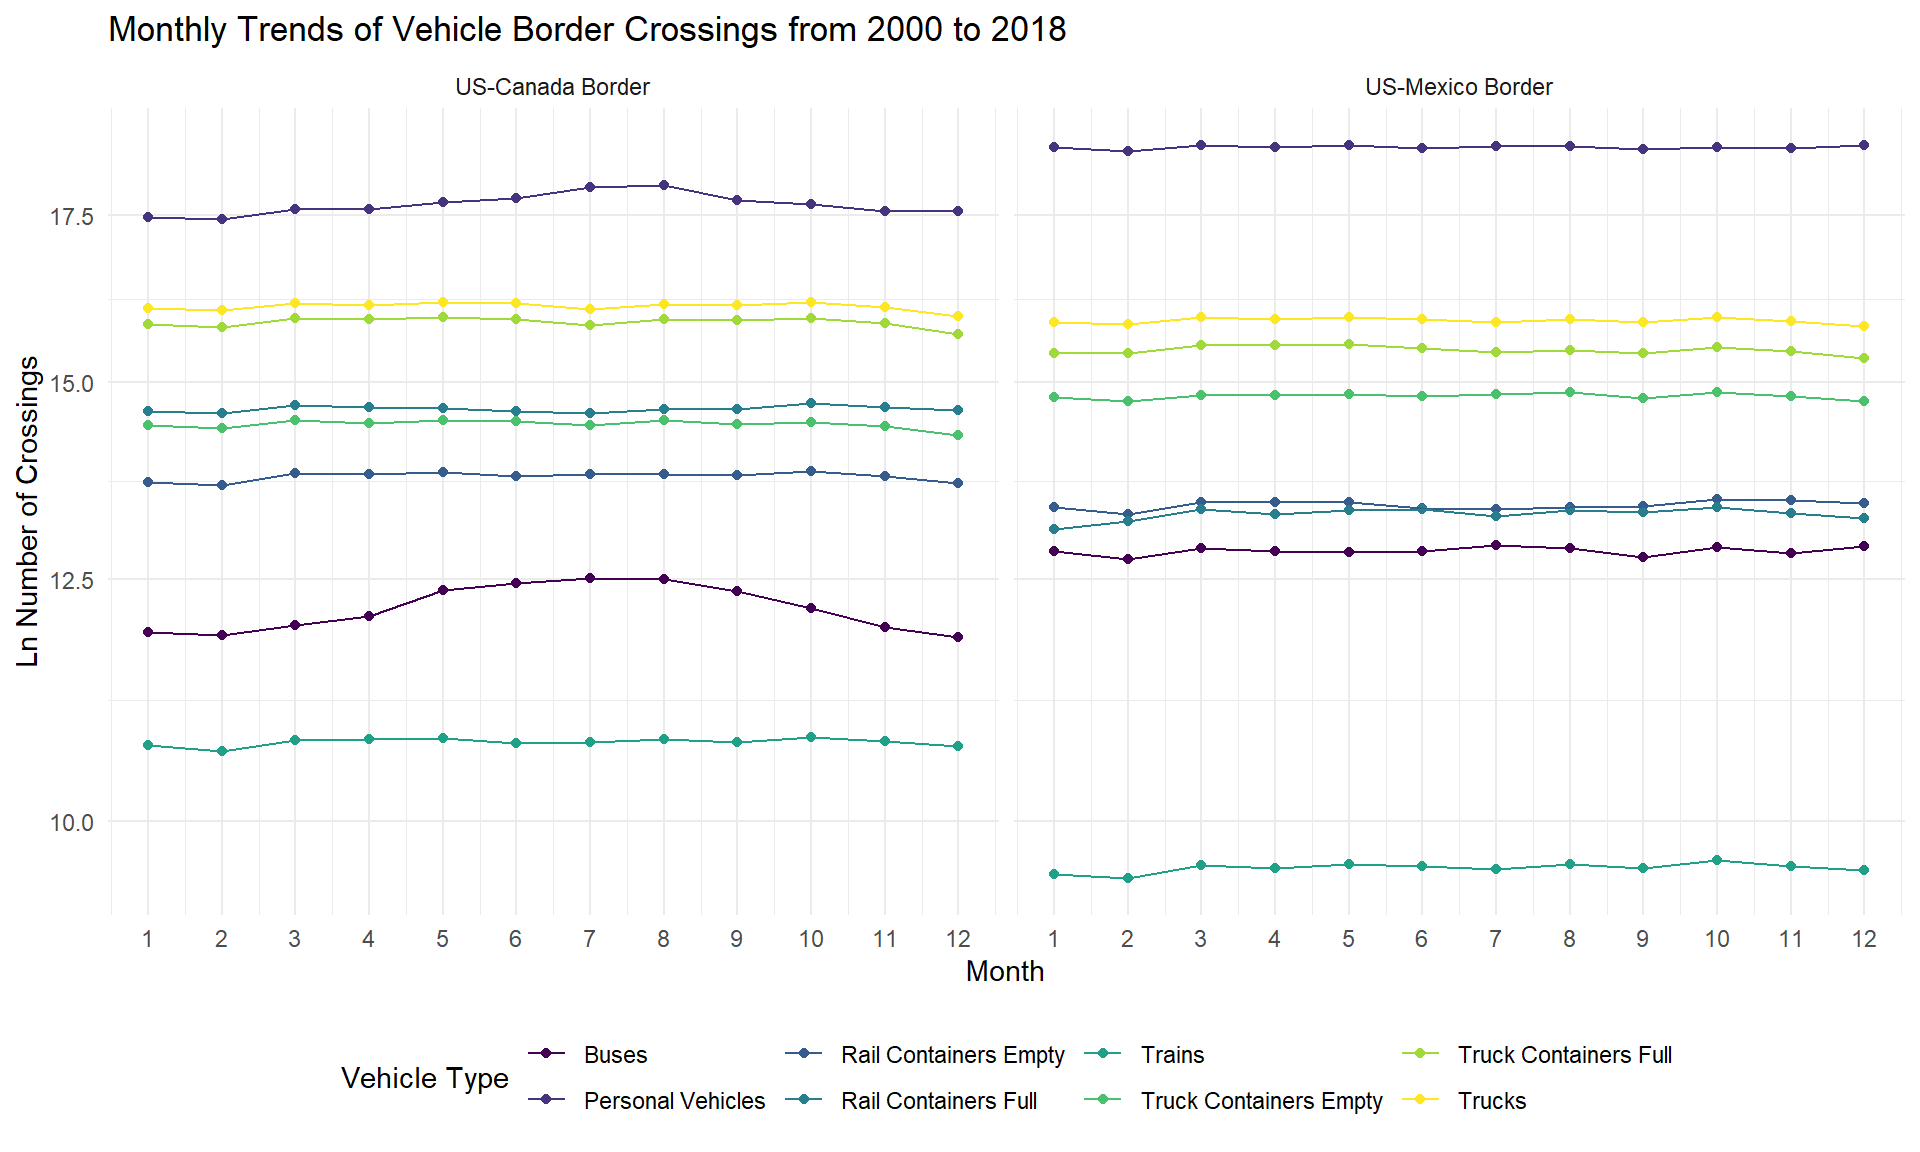
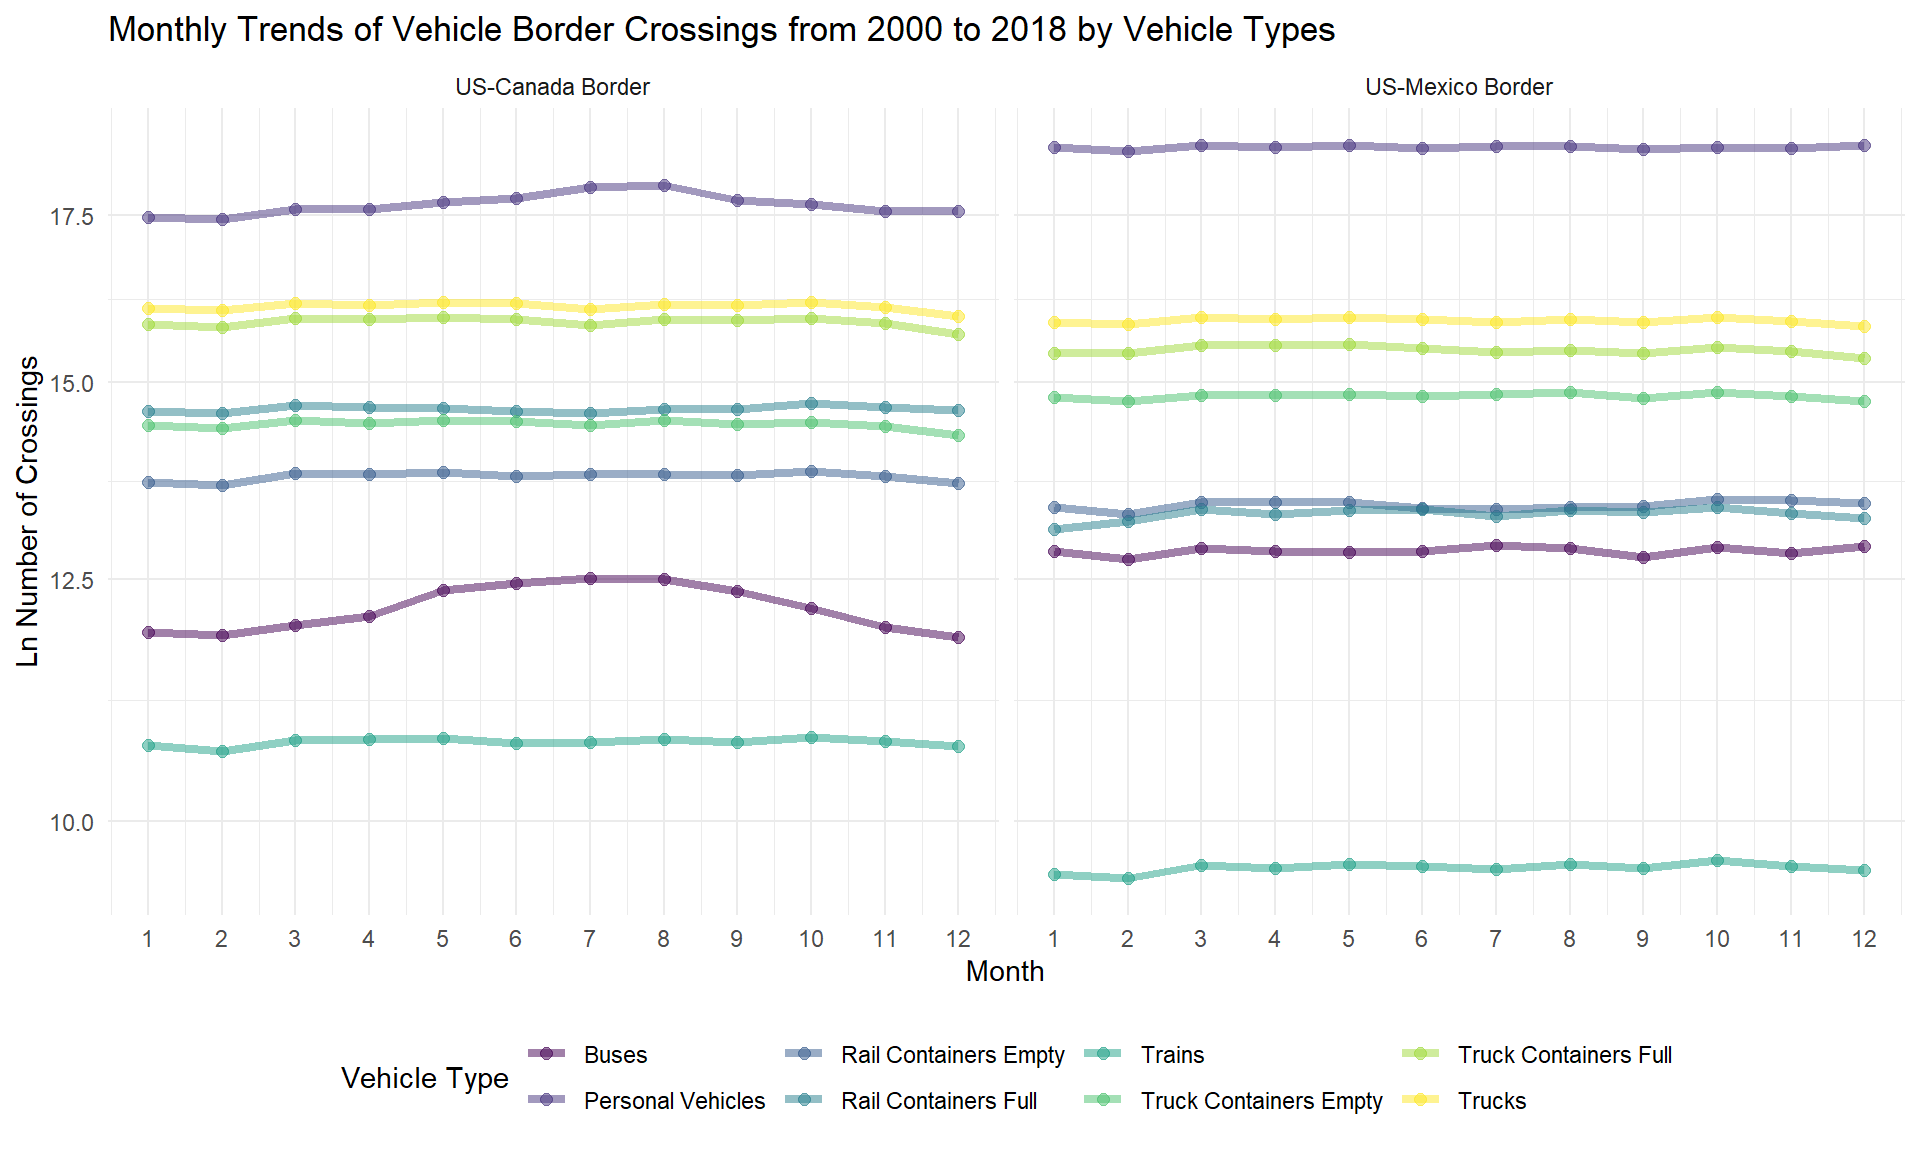
Adding boxplot to dashboard, fixing up line graphs for vehicle trends

diff --git a/crossings_vehicles.html b/crossings_vehicles.html
@@ -11,7 +11,7 @@
 
 
 
-<title>Crossings Vehicles</title>
+<title>Vehicle and Non-Vehicle Border Crossing Trends</title>
 
 <script src="site_libs/jquery-1.11.3/jquery.min.js"></script>
 <meta name="viewport" content="width=device-width, initial-scale=1" />
@@ -23,6 +23,7 @@
 <link href="site_libs/tocify-1.9.1/jquery.tocify.css" rel="stylesheet" />
 <script src="site_libs/tocify-1.9.1/jquery.tocify.js"></script>
 <script src="site_libs/navigation-1.1/tabsets.js"></script>
+<script src="site_libs/navigation-1.1/codefolding.js"></script>
 <link href="site_libs/highlightjs-9.12.0/default.css" rel="stylesheet" />
 <script src="site_libs/highlightjs-9.12.0/highlight.js"></script>
 
@@ -248,6 +249,9 @@ $(document).ready(function () {
 </style>
 
 <!-- code folding -->
+<style type="text/css">
+.code-folding-btn { margin-bottom: 4px; }
+</style>
 
 
 
@@ -384,15 +388,23 @@ div.tocify {
 
 <div class="fluid-row" id="header">
 
+<div class="btn-group pull-right">
+<button type="button" class="btn btn-default btn-xs dropdown-toggle" data-toggle="dropdown" aria-haspopup="true" aria-expanded="false"><span>Code</span> <span class="caret"></span></button>
+<ul class="dropdown-menu" style="min-width: 50px;">
+<li><a id="rmd-show-all-code" href="#">Show All Code</a></li>
+<li><a id="rmd-hide-all-code" href="#">Hide All Code</a></li>
+</ul>
+</div>
 
 
-<h1 class="title toc-ignore">Crossings Vehicles</h1>
+
+<h1 class="title toc-ignore">Vehicle and Non-Vehicle Border Crossing Trends</h1>
 
 </div>
 
 
-<div id="vehicle-trends" class="section level1">
-<h1>Vehicle Trends</h1>
+<div id="monthly-trends" class="section level3">
+<h3>Monthly Trends</h3>
 <pre class="r"><code>vehicles_monthly &lt;-
   border_crossing_df %&gt;%
   filter(vehicle == &quot;Vehicles&quot;) %&gt;%
@@ -403,18 +415,22 @@ vehicles_monthly %&gt;%
   mutate(measure = as.factor(measure), border = as.factor(border)) %&gt;%
   ungroup() %&gt;%
   ggplot(aes(x = month, y = log(num), group = measure , color = measure)) +
-  geom_point() +
-  geom_line() +
+  geom_point(size = 2, alpha = 0.5) +
+  geom_line(size = 1.5, alpha = 0.5) +
   facet_grid(~border) +
   theme(legend.position = &quot;bottom&quot;) + 
   scale_x_continuous(limits = c(1,12), breaks = c(1:12)) +
   scale_y_continuous(trans = scales::log_trans(base = exp(1))) +
-  labs(title = &quot;Monthly Trends of Vehicle Border Crossings from 2000 to 2018&quot;,
+  labs(title = &quot;Monthly Trends of Vehicle Border Crossings from 2000 to 2018 by Vehicle Types&quot;,
        x = &quot;Month&quot;, 
        y = &quot;Ln Number of Crossings&quot;, 
        color = &quot;Vehicle Type&quot;)</code></pre>
 <p><img src="crossings_vehicles_files/figure-html/unnamed-chunk-3-1.png" width="90%" /></p>
-<p>More buses at US Mexico border- seasonal trends in US Canadian border buses and personal vehicles.</p>
+<p>There are more buses and personal vehicle crossings on average at US-Mexico border, but there are more train crossings at the US-Canada border. Looking further at the monthly trends, there is some seasonality in US-Canada border crossings for buses and personal vehicles during the summer months.</p>
+<p>The US-Mexico border has about the same number of crossings throughout the months for both empty and full rail containers, whereas the US-Canada border has consistently greater full rail container crossings.</p>
+</div>
+<div id="yearly-trends" class="section level3">
+<h3>Yearly trends</h3>
 <pre class="r"><code>vehicles_yearly &lt;-
   border_crossing_df %&gt;%
   group_by(vehicle, year) %&gt;%
@@ -435,6 +451,24 @@ vehicles_yearly %&gt;%
   theme(axis.text.x = element_text(angle = 45, hjust = 1))</code></pre>
 <p><img src="crossings_vehicles_files/figure-html/unnamed-chunk-4-1.png" width="90%" /></p>
 <p>The border-crossing trends look similar for both vehicle and non-vehicles, which include pedestrian crossings and passengers. We see a substantial dip in the data around 2008-2012 when President Obama serves his first term. This was a time known for a rise in deportations and lack of immigration reform due to Republican opposition. In his second term, Obama was able to accomplish more broader legislation including the Deferred Action for Childhood Arrivals (DACA) in 2012.</p>
+<pre class="r"><code>border_crossing_df %&gt;%
+  group_by(vehicle, year, border) %&gt;%
+  summarize(num = sum(value)) %&gt;%
+  ggplot(aes(x = year, y = log(num), 
+             color = as.factor(vehicle), group = border)) +
+  geom_point(size = 2, alpha = 0.5) +
+  geom_line(size = 1.5, alpha = 0.5) +
+  facet_grid(~border) +
+  theme(legend.position = &quot;bottom&quot;) + 
+  scale_x_continuous(limits = c(2000,2018), breaks = c(2000:2018)) +
+  scale_y_continuous(trans = scales::log_trans(base = exp(1))) +
+  labs(title = &quot;Yearly Trend of Vehicle and Non-Vehicle Border Crossings from 2000 to 2018&quot;,
+       x = &quot;Year&quot;, 
+       y = &quot;Ln Number of Crossings&quot;, 
+       color = &quot;Crossing Type&quot;,
+       caption = &quot;Number of crossings was log-transformed. Non-vehicle types include pedestrian and vehicle passenger counts.&quot;)+
+  theme(axis.text.x = element_text(angle = 45, hjust = 1))</code></pre>
+<p><img src="crossings_vehicles_files/figure-html/unnamed-chunk-5-1.png" width="90%" /></p>
 <pre class="r"><code>mexico_yearly &lt;- 
   border_crossing_df %&gt;%
   filter(border == &quot;US-Mexico Border&quot;) %&gt;%
@@ -470,14 +504,12 @@ canada_yearly &lt;-
   theme(axis.text.x = element_text(angle = 45, hjust = 1))
 
 canada_yearly / mexico_yearly</code></pre>
-<p><img src="crossings_vehicles_files/figure-html/unnamed-chunk-5-1.png" width="90%" /></p>
+<p><img src="crossings_vehicles_files/figure-html/unnamed-chunk-6-1.png" width="90%" /></p>
 </div>
 <div id="personal-vehicles" class="section level1">
 <h1>Personal Vehicles</h1>
 <pre class="r"><code>personal_vehicle_df &lt;-
   border_crossing_df</code></pre>
-<p>change in commercial travel</p>
-<p>empty trucks?</p>
 </div>
 
 
@@ -515,6 +547,11 @@ $(document).ready(function () {
 </script>
 
 <!-- code folding -->
+<script>
+$(document).ready(function () {
+  window.initializeCodeFolding("hide" === "show");
+});
+</script>
 
 <script>
 $(document).ready(function ()  {
